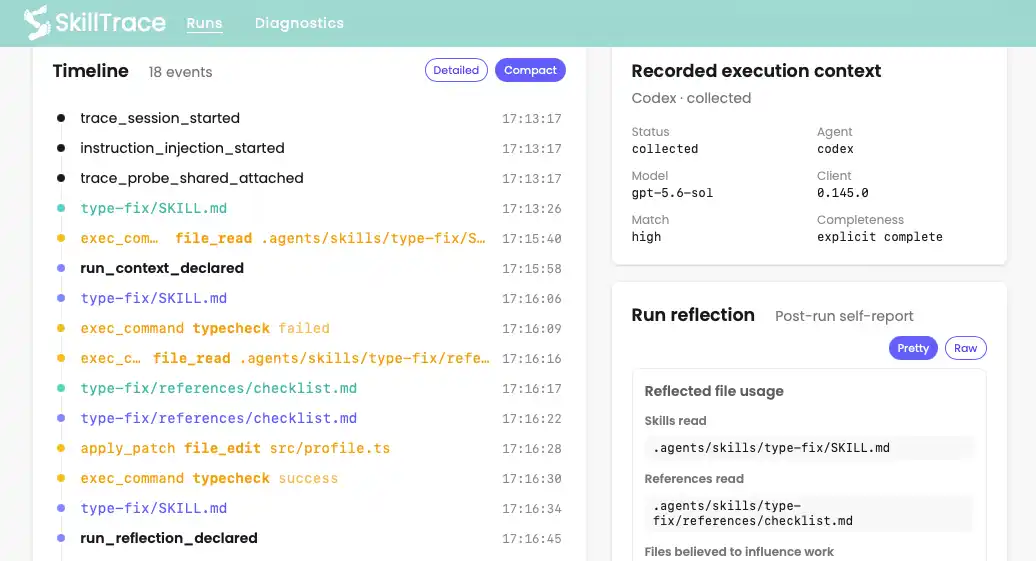
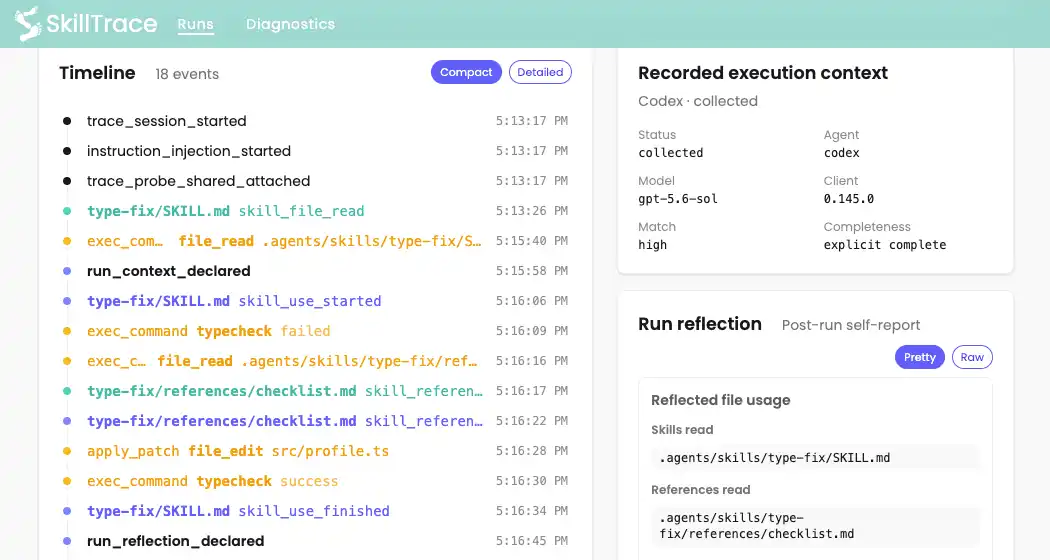
Update to ver 0.3.3

diff --git a/README.md b/README.md
@@ -14,7 +14,7 @@ the work to specific skills, references, files, steps, and uncertainties.
 <table>
   <tr>
     <td>
-      <a href="https://github.com/user-attachments/assets/ddcdebc4-9050-4614-b9ac-14f484620a99" target=”_blank”>
+      <a href="https://github.com/user-attachments/assets/5958429c-e98b-43e9-a872-329998b2e0f6" target=”_blank”>
         <img src="https://raw.githubusercontent.com/hideya/skilltrace/main/docs/images/skilltrace-video-cover.webp" height="250px" />
       </a>
       <br />

diff --git a/CHANGELOG.md b/CHANGELOG.md
@@ -7,7 +7,15 @@ and this project adheres to [Semantic Versioning](http://semver.org/).
 
 ## [Unreleased]
 
+## [0.3.3] - 2026-08-23
+
+### Changed
+
+- Replace Arctic OAuth helper with local implementation
+
 ## [0.3.2] - 2026-08-23
+
+### Changed
 
 - Show event types in compact run timeline
 - Make compact view of run details page default
